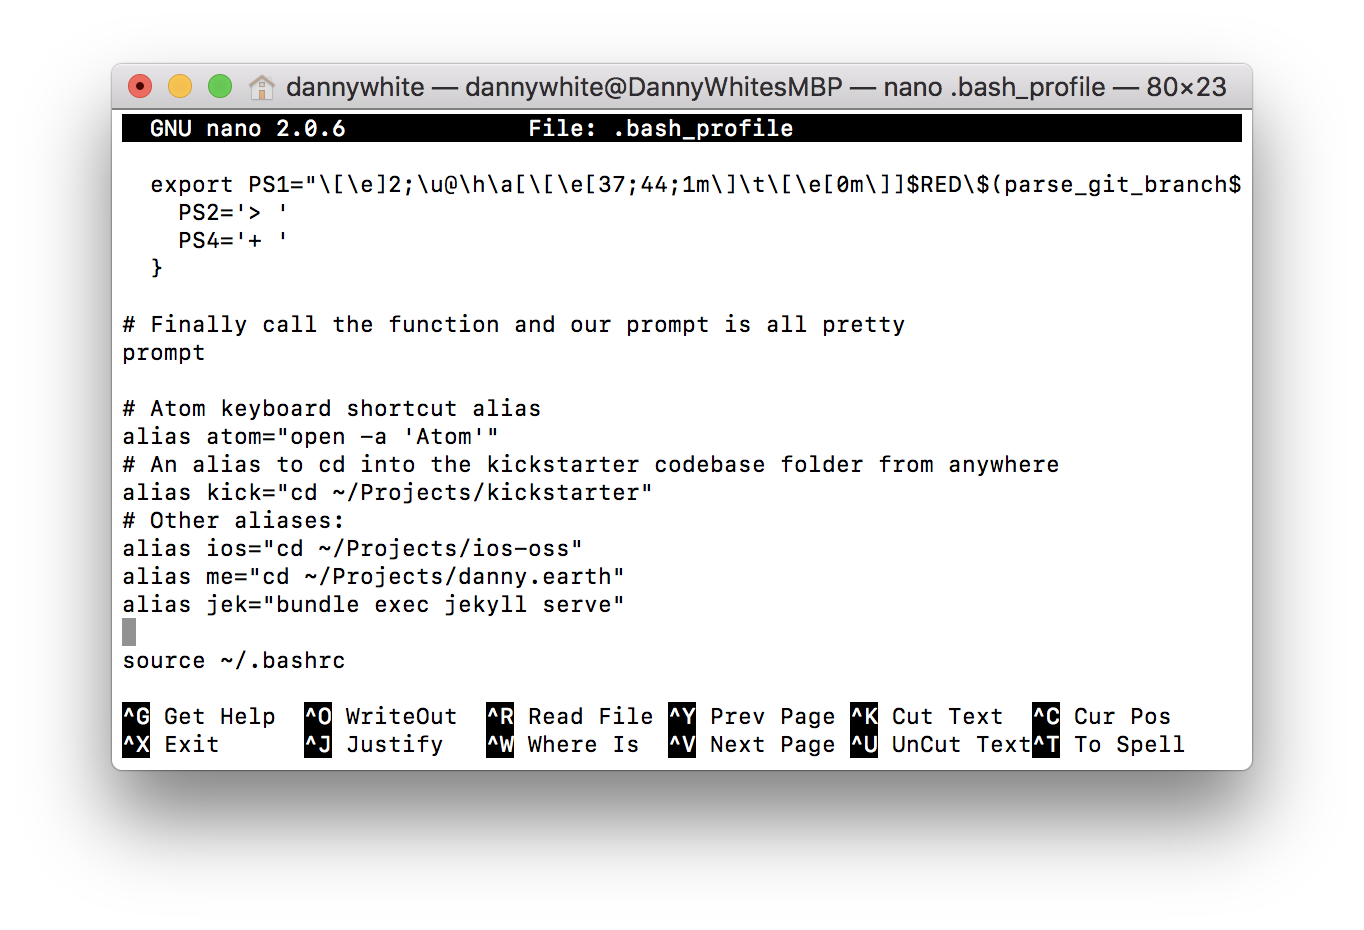
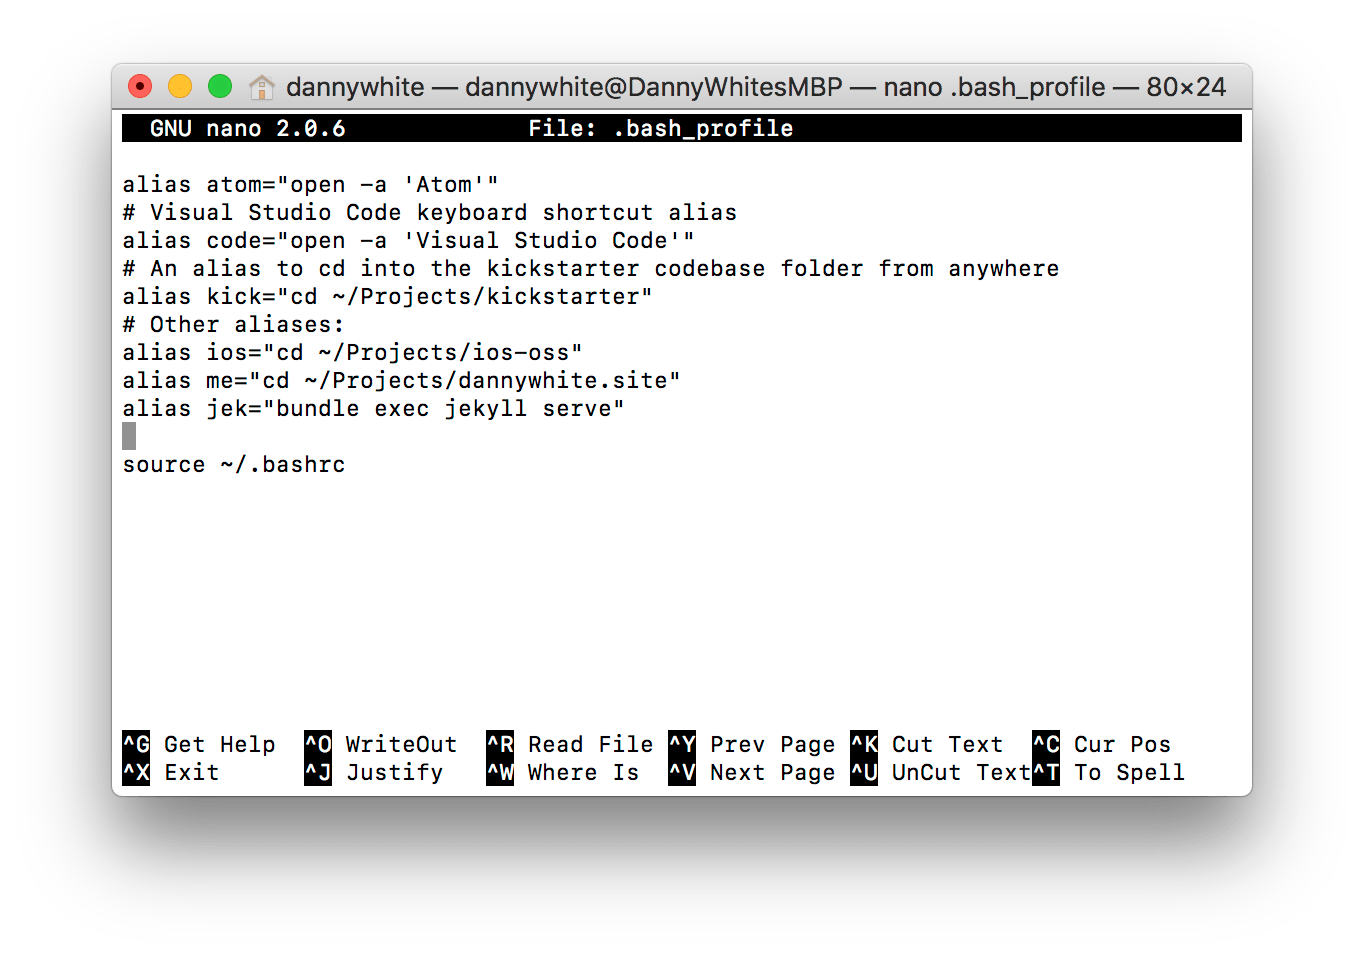
pre-wrap css prop

diff --git a/assets/style.css b/assets/style.css
@@ -13,7 +13,7 @@
 
 /* I'm using the Inter UI font family */
 /* See https://rsms.me/inter */
-@import url('https://rsms.me/inter/inter-ui.css');
+@import url("https://rsms.me/inter/inter-ui.css");
 
 /* Setup */
 :root {
@@ -37,7 +37,7 @@ body {
   /* Defining what one em unit is */
   font-size: 13pt;
   color: rgba(60, 60, 60, 1);
-  font-family: 'Inter UI', sans-serif;
+  font-family: "Inter UI", sans-serif;
 
   max-width: 640px;
   margin: 2em auto;
@@ -50,28 +50,33 @@ nav svg {
   fill: rgba(60, 60, 60, 1);
   margin-bottom: 0.5em;
 }
-  /* Fancy back button */
-  nav.back a p {
-    position: absolute;
-    top: 3.7em;
-    margin-left: -0.5em;
-    transition: 0.2s ease;
-    opacity: 0;
-  }
-  nav.back a:hover > p {
-    margin-left: -0.65em;
-    opacity: 1;
-  }
+/* Fancy back button */
+nav.back a p {
+  position: absolute;
+  top: 3.7em;
+  margin-left: -0.5em;
+  transition: 0.2s ease;
+  opacity: 0;
+}
+nav.back a:hover > p {
+  margin-left: -0.65em;
+  opacity: 1;
+}
 
 /* Typography */
-h1, h2, h3, h4, h5, h6 {
+h1,
+h2,
+h3,
+h4,
+h5,
+h6 {
   font-weight: normal;
 }
 
 p,
 ul:not(ul.plain),
 ol {
-  margin-top: .5em;
+  margin-top: 0.5em;
 }
 
 h1 {
@@ -84,7 +89,11 @@ h2 {
   margin-top: 2em;
 }
 
-h2, h3, h4, h5, h6 {
+h2,
+h3,
+h4,
+h5,
+h6 {
   margin-bottom: 0;
   line-height: 1.4;
 }
@@ -92,7 +101,6 @@ h2, h3, h4, h5, h6 {
 h3 {
   margin-top: 1.25em;
   font-size: 1.3em;
-
 }
 
 h4 {
@@ -119,10 +127,10 @@ nav.back a p {
 
 figcaption,
 label {
-  font-size: .8em;
+  font-size: 0.8em;
   margin-top: 0.2em;
   line-height: 1.5em;
-  letter-spacing: .015em;
+  letter-spacing: 0.015em;
 }
 
 /* Ragged paragraphs */
@@ -176,39 +184,40 @@ ul.plain {
   padding: 0;
 }
 ul.inline li {
-	display: inline;
+  display: inline;
 }
-  ul.inline li:before {
-  	content: '  /  ';
-  }
-  ul.inline li:first-child:before {
-  	content: '';
-  }
-  ul.inline li:last-child:after {
-  	content: '.';
-  }
+ul.inline li:before {
+  content: "  /  ";
+}
+ul.inline li:first-child:before {
+  content: "";
+}
+ul.inline li:last-child:after {
+  content: ".";
+}
 ul.plain {
   list-style: none;
 }
-  ul.plain h3 {
-    margin-bottom: .5em;
-    margin-top: 1.5em;
-  }
-  ul.plain li {
-    margin-bottom: 2em;
-  }
-  ul.plain li:last-of-type {
-    margin-bottom: 0;
-  }
-
+ul.plain h3 {
+  margin-bottom: 0.5em;
+  margin-top: 1.5em;
+}
+ul.plain li {
+  margin-bottom: 2em;
+}
+ul.plain li:last-of-type {
+  margin-bottom: 0;
+}
 
 /* Code */
+pre {
+  white-space: pre-wrap;
+}
 code {
   background-color: rgba(148, 148, 148, 0.1);
   font-family: "Monaco", monospace;
   font-size: 0.95em;
 }
-
 
 /* Post-specific */
 article header {
@@ -227,27 +236,26 @@ article figure {
 .intrinsic-container {
   position: relative;
 }
-  /* 16x9 Aspect Ratio */
-  .intrinsic-container:before {
-    display: block;
-    content: '';
-    width: 100%;
-    padding-top: 56.25%;
-  }
-  .intrinsic-container > iframe {
-    position: absolute;
-    top: 0;
-    left: 0;
-    right: 0;
-    bottom: 0;
-    width: 100%;
-    height: 100%;
-
-  }
-  .tweet > iframe {
-    margin-left: auto;
-    margin-right: auto;
-  }
+/* 16x9 Aspect Ratio */
+.intrinsic-container:before {
+  display: block;
+  content: "";
+  width: 100%;
+  padding-top: 56.25%;
+}
+.intrinsic-container > iframe {
+  position: absolute;
+  top: 0;
+  left: 0;
+  right: 0;
+  bottom: 0;
+  width: 100%;
+  height: 100%;
+}
+.tweet > iframe {
+  margin-left: auto;
+  margin-right: auto;
+}
 
 /* Animations */
 nav,
@@ -277,6 +285,10 @@ section {
 }
 
 @keyframes fadein {
-  from { opacity: 0; }
-  to { opacity: 1; }
+  from {
+    opacity: 0;
+  }
+  to {
+    opacity: 1;
+  }
 }

diff --git a/_posts/2018-04-08-bash-your-profile.md b/_posts/2018-04-08-bash-your-profile.md
@@ -6,17 +6,18 @@ date: 2018-04-07 09:12:00 -0400
 featured-image: atom-bash_profile.png
 ---
 
-It seems like everyone has a use for Terminal these days but the people most uncomfortable with it (think PMs, designers) have the heaviest lifting to do. Shortcuts are so wildly helpful for making Terminal approachable—yet are somehow unexplained and impenetrable for those that need them. 
+It seems like everyone has a use for Terminal these days but the people most uncomfortable with it (think PMs, designers) have the heaviest lifting to do. Shortcuts are so wildly helpful for making Terminal approachable—yet are somehow unexplained and impenetrable for those that need them.
 
 Here's my attempt to fix that.
 
 ## The long way
+
 Repeatedly typing in the same commands into Terminal is annoying, takes time, and is prone to mistakes. Let's look at some examples of my common commands to illustrate this.
 
 To navigate to my personal site's local folder, I'd manually type:
 
 ```
-cd ~/Projects/dannywhite.is
+cd ~/Projects/dannywhite.site
 ```
 
 That would almost always be followed up by the command to start the local Jekyll server to preview changes to that site:
@@ -25,12 +26,12 @@ That would almost always be followed up by the command to start the local Jekyll
 bundle exec jekyll serve
 ```
 
-And then I'd want to open this folder up in Atom. I don't even know how to do this long-hand in Terminal so would probably just navigate to said folder via Finder and drag it onto Atom's app icon. 
+And then I'd want to open this folder up in Atom. I don't even know how to do this long-hand in Terminal so would probably just navigate to said folder via Finder and drag it onto Atom's app icon.
 
 A bit painful.
 
-
 ## The quick way
+
 You can shorten these commands into shortcuts of your choosing. My shortcuts for the above three commands are `me`, `jek`, and `atom` respectively. So to get those same three things done, I'd instead write:
 
 ```
@@ -39,7 +40,7 @@ jek
 atom .
 ```
 
-Let's give it a try. Open Terminal and type `nano .bash_profile`. This should create and open the `.bash_profile` inside of Terminal.
+Let's give it a try. Open Terminal and type `nano .bash_profile`. This should create and open the _.bash_profile_ file inside of Terminal.
 
 Here's what mine looks like with shortcuts already made at the bottom:
 
@@ -57,14 +58,14 @@ alias your-shortcut-name="whatever-you're-shortening"
 
 `"whatever-you're-shortening"`: if your shortcut is to navigate to a directory, you would replace this with `"cd ~/My Folder/"`. If your shortcut is to open an application, you would replace this with `"open -a App Name"`.
 
-Simply add any of your desired shortcuts to the bottom of this file, above `source ~/.bashrc`.
-
+Simply add any of your desired shortcuts to the bottom of this file, above `source ~/.bashrc`. Save _.bash_profile_ and restart Terminal. Your shortcuts should now work.
 
 ## The pro zone
+
 I don't even need to fuss in Terminal now that I have an application shortcut for Atom. Instead of writing the command `nano .bash_profile`, I can use my fancy shortcut `atom .bash_profile` for a nicer experience.
 
 {% include image.html name="atom-bash_profile.png" %}
 
-Keep an eye on an nearby engineer as they use Terminal. You might see them use shortcuts beyond applications and directories such as using `gc` for `git commit`. It's all up to you. Colours, ASCII art, and things I'm yet to figure out are also customisable via `.bash_profile`.
+Keep an eye on an nearby engineer as they use Terminal. You might see them use shortcuts beyond applications and directories such as using `gc` for `git commit`. It's all up to you. Colours, ASCII art, and things I'm yet to figure out are also customisable via _.bash_profile_.
 
 Shout out to Stephanie Coleman who introduced me to all of this at Kickstarter.
